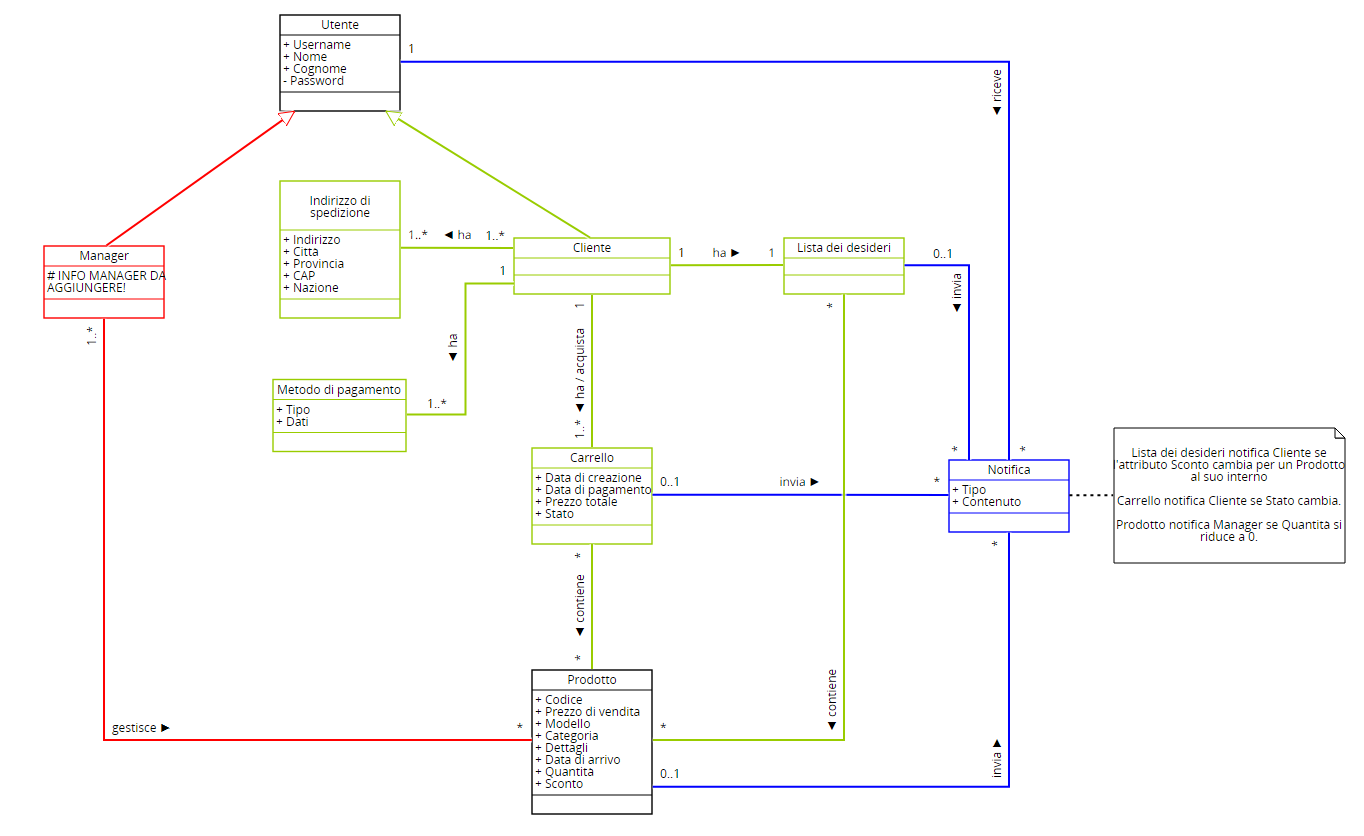
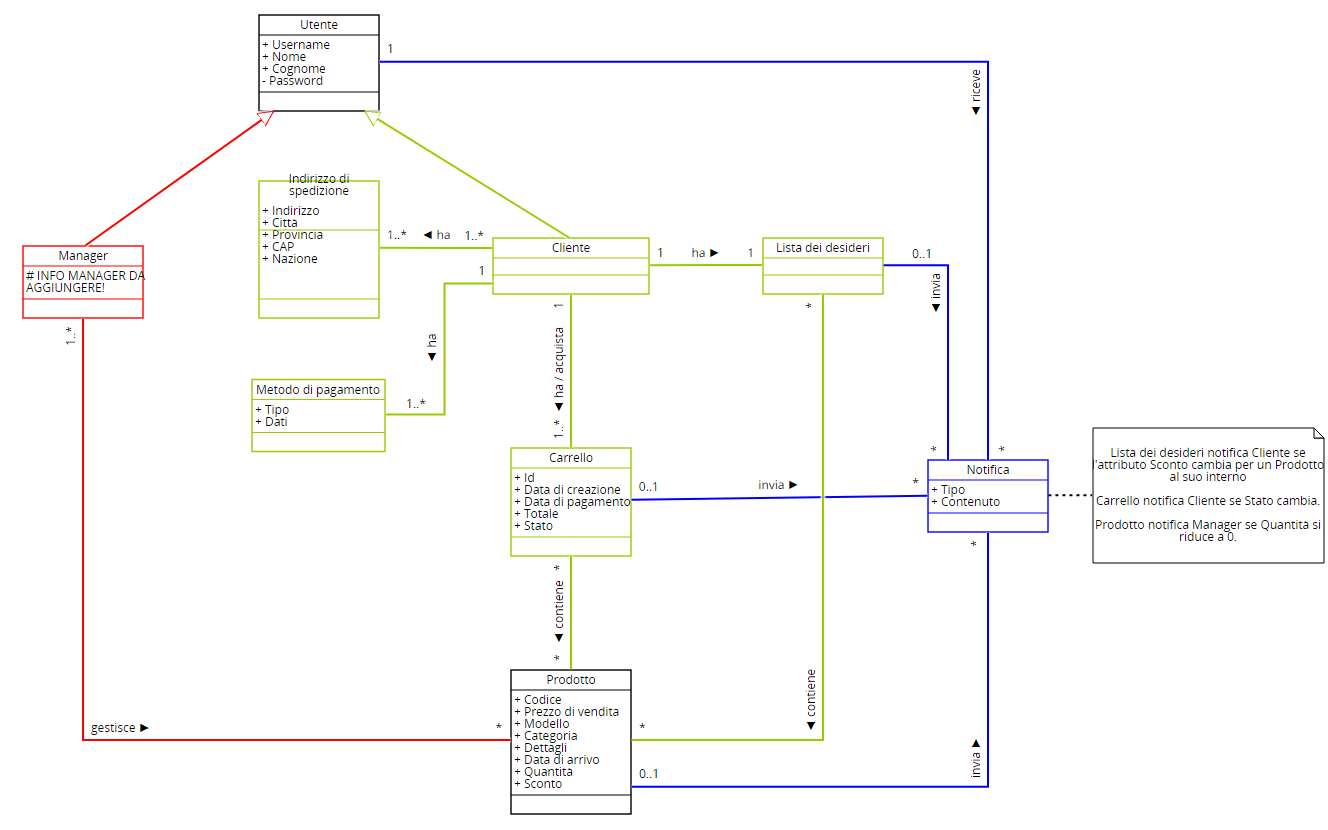
update: correzioni minori alla classe Carrello nei glossari di V1 e V2

Changed region(s): [[0.0, 0.0301, 1.0, 0.994], [0.1852, 0.3916, 0.3396, 0.5723], [0.1235, 0.2108, 0.1544, 0.241]]

diff --git a/RequirementsDocumentV2.md b/RequirementsDocumentV2.md
@@ -893,6 +893,7 @@ Storia: vuole regalare a suo figlio una console da gioco, <u>spedendola ad un in
 - Carrello
   - Ogni carrello è proprietà di un singolo cliente
   - Contiene i prodotti in esso inseriti dal cliente proprietario
+  - La data di pagamento viene aggiunta solo quando il cliente paga per il carrello
   - Ogni carrello è dotato di uno stato: {Non Acquistato, Richiesta Spedizione, Preparazione Spedizione, In Transito, Consegnato}
   - Il cliente viene notificato dell'esaurimento di un prodotto contenuto nel suo carrello corrente
 - Lista dei desideri

diff --git a/RequirementsDocumentV1.md b/RequirementsDocumentV1.md
@@ -660,6 +660,7 @@ Storia: deve <u>registrare l'arrivo</u> di una serie di prodotti e <u>applicare 
 - Carrello
   - Ogni carrello è proprietà di un singolo cliente
   - Contiene i prodotti in esso inseriti dal cliente proprietario
+  - Quando il cliente paga per il carrello, l'evento viene registrato insieme alla data in cui è avvenuto
 
 ![glossary](./img/glossaryV1.png)
 
